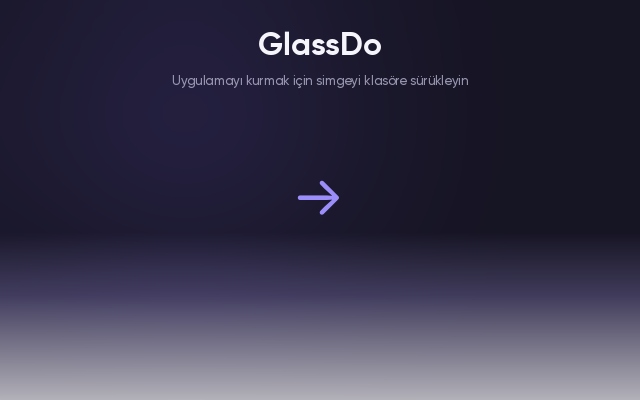
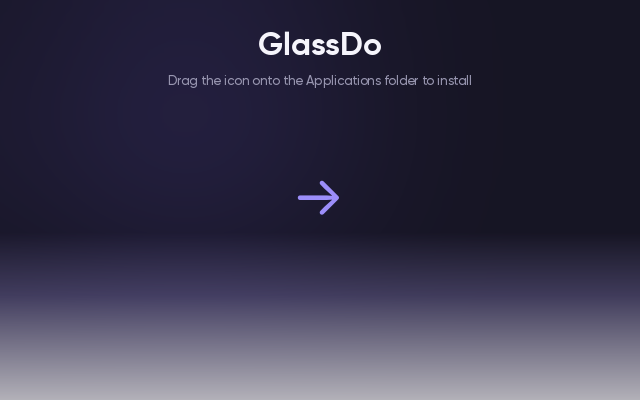
Kurulum: DMG arka planı ve kurulum sayfaları güncellendi

Changed region(s): [[0.25, 0.18, 0.75, 0.24]]

diff --git a/app/Resources/pkg/welcome.html b/app/Resources/pkg/welcome.html
@@ -9,16 +9,16 @@
   .note { color: #6b6980; margin-top: 14px; font-size: 12px; }
 </style></head>
 <body>
-  <h2>GlassDo kuruluyor</h2>
-  <p>Görevler, yapışkan notlar, ekran kenarındaki panel ve sistem ölçerleri
-     tek bir uygulamada. Her şey bu cihazda kalır.</p>
+  <h2>Installing GlassDo</h2>
+  <p>Tasks, sticky notes, an edge panel and system meters in one app.
+     Everything stays on this Mac.</p>
   <ul>
-    <li>Görevler ve masaüstünde duran notlar</li>
-    <li>İşlemci, bellek, disk ve ağ ölçerleri</li>
-    <li>Pencere değiştirici ve raf</li>
-    <li>USB ile bağlanan Android telefondan dosya aktarımı</li>
+    <li>Tasks and notes that live on your desktop</li>
+    <li>CPU, memory, disk and network meters</li>
+    <li>Window switcher and shelf</li>
+    <li>File transfer from an Android phone over USB</li>
   </ul>
-  <p class="note">Kurulum bitince GlassDo kendiliğinden açılır. Pencere
-     değiştirici ve ölçerler için ilk açılışta Erişilebilirlik ve Ekran
-     Kaydı izinleri istenir.</p>
+  <p class="note">GlassDo opens by itself once the installation finishes.
+     On first launch it asks for Accessibility and Screen Recording
+     permissions, which the window switcher and the meters rely on.</p>
 </body></html>

diff --git a/app/Resources/pkg/conclusion.html b/app/Resources/pkg/conclusion.html
@@ -7,9 +7,10 @@
   .note { color: #6b6980; margin-top: 12px; font-size: 12px; }
 </style></head>
 <body>
-  <h2>Hazır</h2>
-  <p>GlassDo birazdan açılacak. Menü çubuğundaki simgeden paneli
-     gösterebilir, ayarlara ulaşabilir ve uygulamadan çıkabilirsiniz.</p>
-  <p class="note">Dock'taki simgeden çıkmak uygulamayı kapatmaz, arka plana
-     alır: menü çubuğu ölçerleri ve widget'lar çalışmaya devam eder.</p>
+  <h2>You're all set</h2>
+  <p>GlassDo is opening now. Use the menu bar icon to show the panel,
+     reach settings, or quit the app.</p>
+  <p class="note">Quitting from the Dock does not close GlassDo — it moves
+     to the background, so the menu bar meters and widgets keep running.
+     Use Quit in the menu bar icon to close it completely.</p>
 </body></html>
